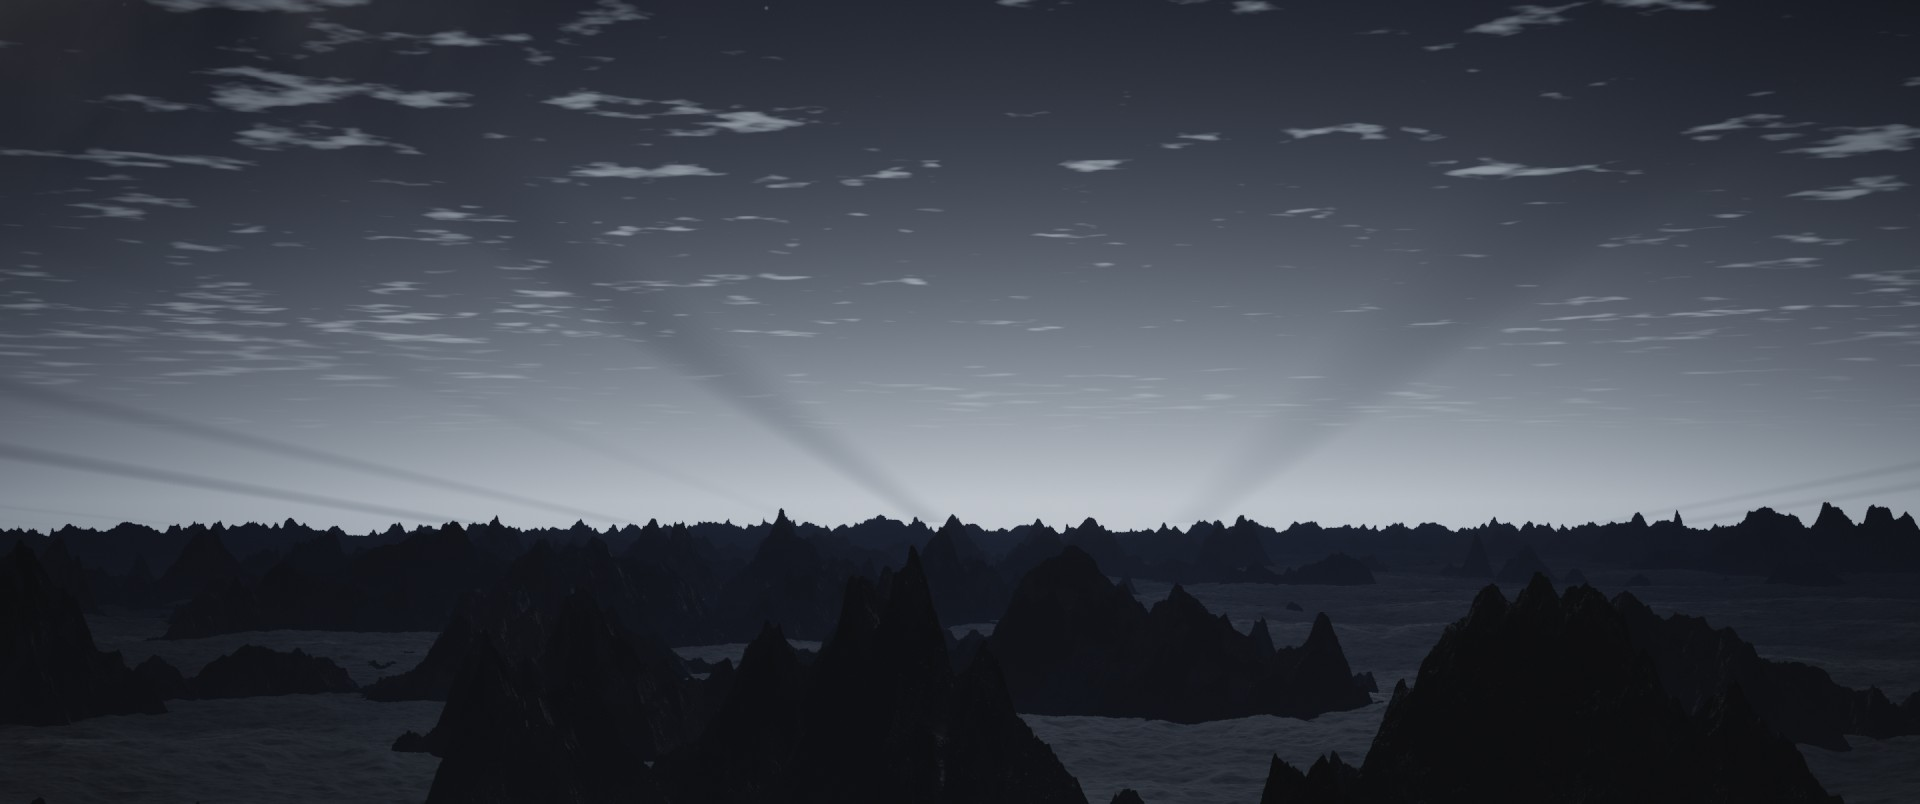
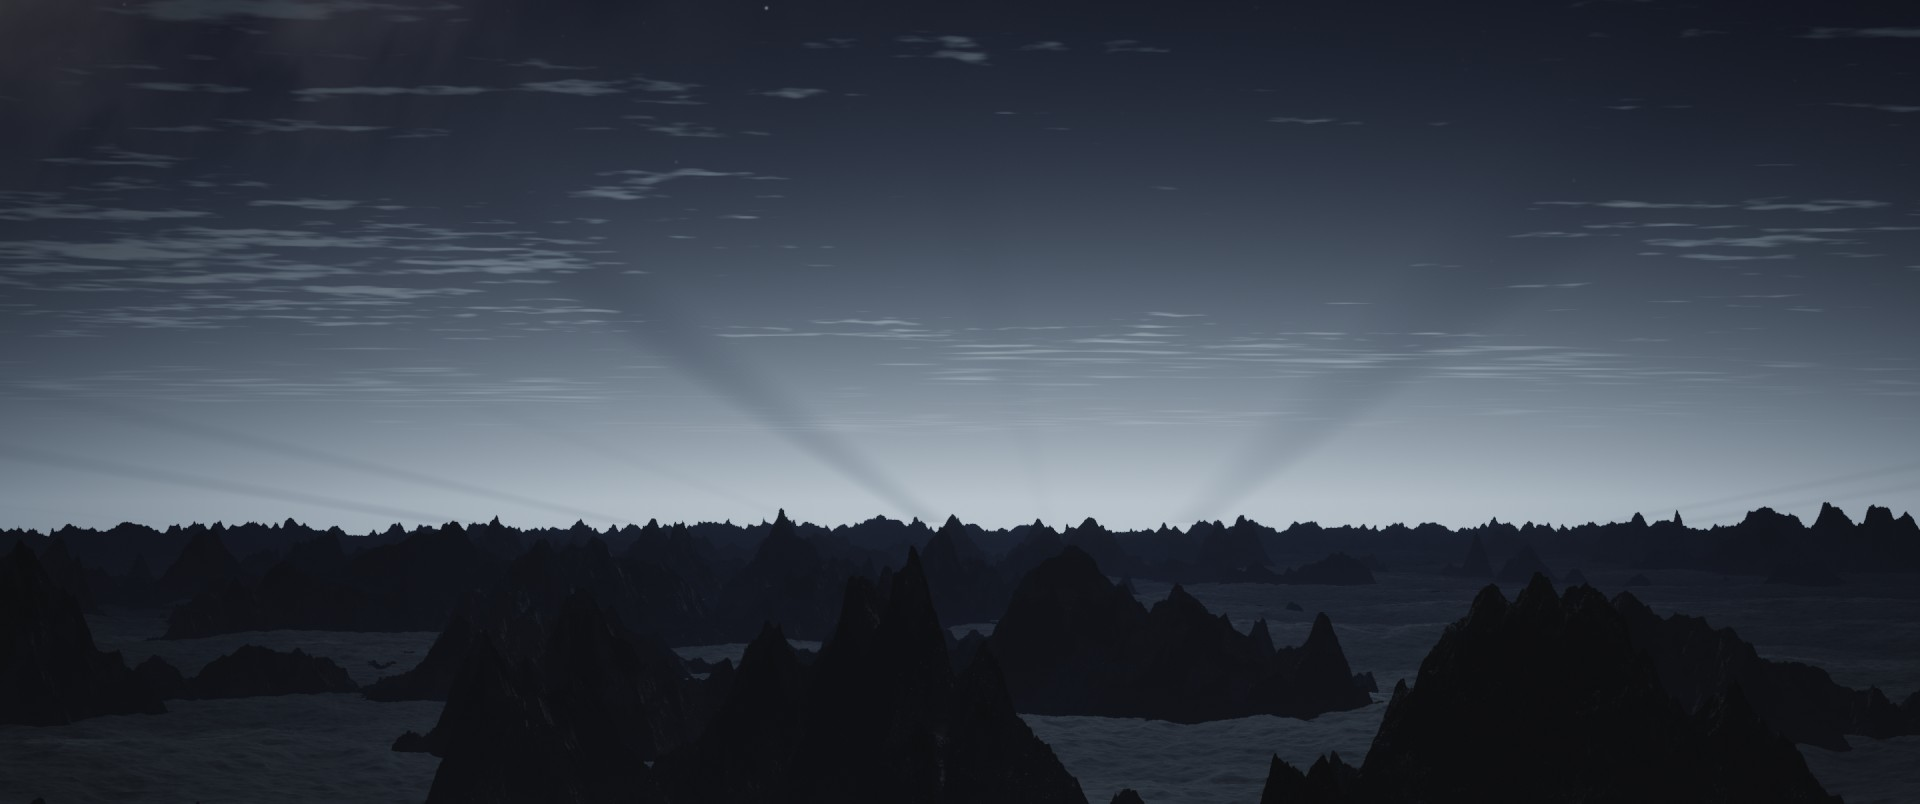
RUN-A: crossing passes at 64 m (40 walkers, figures ~54 px); short star arcs; trail only behind the tail; earlier draw-back; false dawn arc refined (banded deck, darker zenith, rays near the source)
Claude-Session: https://claude.ai/code/session_01JFQHrAtoWMc2byk3yWo6px

diff --git a/the-long-dawn/shots/run/crossing.py b/the-long-dawn/shots/run/crossing.py
@@ -23,7 +23,7 @@ import sys
 import time
 
 import numpy as np
-from numba import njit, prange
+from numba import njit
 
 HERE = os.path.dirname(os.path.abspath(__file__))
 sys.path.insert(0, HERE)
@@ -164,7 +164,7 @@ S_L0 = None                                   # arc length of the lantern at fra
 def variant_cfg(variant):
     if variant == 'few':
         return dict(n=12, gap=4.2, jit=0.5, r1=52.0, dT=12.0, hfov1=46.0, h1=1.6, r0=5.5)
-    return dict(n=40, gap=2.6, jit=0.35, r1=85.0, dT=22.0, hfov1=48.0, h1=2.5, r0=5.5)
+    return dict(n=40, gap=2.6, jit=0.35, r1=64.0, dT=17.0, hfov1=48.0, h1=2.2, r0=5.5)
 
 
 def _hh(i, j=0):
@@ -254,6 +254,11 @@ def breath(t):
 
 
 # ------------------------------------------------------------------ camera ---
+def _ss(x):
+    x = min(max(x, 0.0), 1.0)
+    return x * x * (3.0 - 2.0 * x)
+
+
 def _sm(x):
     x = min(max(x, 0.0), 1.0)
     return x * x * x * (x * (6 * x - 15) + 10)
@@ -278,8 +283,10 @@ def camera(frame, W=1920, H=804, cfg=None):
     cfg = cfg or variant_cfg('main')
     t = frame / FPS
     L = heart_pos(t)
-    e1 = _sm((t - 2.5) / 27.0)
-    e2 = _sm((t - 2.0) / 26.0)
+    # the draw-back starts within a second of the match cut (a cubic ease: it is under way by 3 s) and settles at
+    # 26 s; the swing from behind to side-on runs alongside it
+    e1 = _ss((t - 1.0) / 25.0)
+    e2 = _ss((t - 1.0) / 24.0)
     r = cfg['r0'] * (cfg['r1'] / cfg['r0']) ** e1
     beta = math.radians(14.0 + 60.0 * e2)
     h = 1.25 + (cfg['h1'] - 1.25) * e1 ** 1.3
@@ -287,7 +294,7 @@ def camera(frame, W=1920, H=804, cfg=None):
     T = L - E3 * cfg['dT'] * e1 - UP * 0.3 * e1
     d = T - pos
     yaw = math.degrees(math.atan2(d[0], d[2]))
-    pitch = math.degrees(math.atan2(d[1], math.hypot(d[0], d[2]))) + 5.0 * e1
+    pitch = math.degrees(math.atan2(d[1], math.hypot(d[0], d[2]))) + 3.0 * e1
     hfov = 32.0 + (cfg['hfov1'] - 32.0) * e1
     return RC.RCam(pos, yaw, pitch, 0.0, hfov, W, H)
 
@@ -334,7 +341,6 @@ def underglow(t):
 def wf_positions():
     out = []
     for u in WF_U:
-        p = uv(u, 5.5)
         # the top of the little rock step
         best = None
         for dv in np.linspace(-2.5, 2.5, 11):
@@ -491,7 +497,8 @@ def draw_sky(fr, t, pxs):
     st = stars()
     a = sky_angle(t)
     mask = (fr.dist > 1e8).astype(np.float32)
-    expo = min(a, 10.0) * smoothstep(0.0, 6.0, a)         # degrees of arc in each trail
+    expo = min(a, 6.0) * smoothstep(0.0, 6.0, a)          # degrees of arc in each trail (short: the sky
+    # turns, it is not a star-trail photograph)
     M = 2 if expo < 0.05 else int(8 + 16 * min(expo / 10.0, 1.0))
     angs = a - expo * (1.0 - np.linspace(0.0, 1.0, M))
     D = st['dir']
@@ -521,7 +528,7 @@ def draw_sky(fr, t, pxs):
         return
     # the head (current position) stays a point; the arc behind it is the exposure, fading with age
     wage = np.exp(-(1.0 - np.linspace(0.0, 1.0, M)) * 1.6)[None, :]
-    seg_e = lum[:, None] * ext * wage * 0.45 * (0.4 + 0.6 * min(expo / 8.0, 1.0))
+    seg_e = lum[:, None] * ext * wage * 0.36 * (0.4 + 0.6 * min(expo / 5.0, 1.0))
     _trails(fr.img, mask, sx.astype(np.float64), sy.astype(np.float64), seg_e[:, :-1].astype(np.float64), col,
             float(sig))
     SK._splat(fr.img, sx[:, -1].astype(np.float64), sy[:, -1].astype(np.float64), (head * 0.6).astype(np.float64),
@@ -698,23 +705,21 @@ def draw_trail(img, zb, scam, t, cfg, gain):
     """The faint trail of light the line leaves on the path behind it (opens with the long exposure)."""
     if gain <= 0.0:
         return
+    # only BEHIND the last walker, on the trodden snow: between the walkers a lit line reads as a wire
     S_ = line_s(t, cfg)
-    s_head = S_[1]
-    ss = np.arange(s_head - 260.0, s_head - 0.5, 0.5)
-    I = np.zeros(len(ss))
-    for sk in S_[1:]:
-        dlt = sk - ss
-        I += np.where(dlt > 0, smoothstep(0.6, 3.2, dlt) * np.exp(-dlt / 55.0), 0.0)
-    I = I / 8.0
+    s_tail = S_[-1]
+    ss = np.arange(s_tail - 150.0, s_tail - 0.8, 0.4)
+    dlt = s_tail - ss
+    I = np.exp(-dlt / 45.0) * smoothstep(1.0, 5.0, dlt)
     P, _ = at(ss)
-    P = P + UP * 0.72
+    P = P + UP * 0.05
     sx, sy, z = scam.project(P)
     col = np.array([1.0, 0.62, 0.30])
     for m in range(len(ss) - 1):
         if z[m] < 0.5 or I[m] <= 1e-4:
             continue
         e = gain * 0.5 * (I[m] + I[m + 1])
-        w = max(0.05 * scam.f / z[m], 0.6)
+        w = max(0.22 * scam.f / z[m], 0.6)
         _aa_line(img, zb, float(sx[m]), float(sy[m]), float(sx[m + 1]), float(sy[m + 1]), float(z[m]), float(w),
                  float(col[0] * e), float(col[1] * e), float(col[2] * e), 0.4)
 
@@ -829,7 +834,7 @@ def render(frame, scale=1.0, ss=1.5, variant='main', trail=True):
     SP.render(fr.img, fr.zb, C, Pr, Ob, np.array(lights, np.float64), moon, light[1] * 1.3, light[3], scam.pos[1])
     a = sky_angle(t)
     if trail:
-        draw_trail(fr.img, fr.zb, scam, t, cfg, 0.06 * smoothstep(4.0, 16.0, a))
+        draw_trail(fr.img, fr.zb, scam, t, cfg, 0.10 * smoothstep(4.0, 16.0, a))
     draw_rope(fr.img, fr.zb, scam, waists, lights, md, mf)
     draw_fires(fr.img, fr.zb, scam, t)
     draw_small_glows(fr.img, fr.zb, scam, lant)

diff --git a/the-long-dawn/shots/run/falsedawn.py b/the-long-dawn/shots/run/falsedawn.py
@@ -122,7 +122,7 @@ def glow_at(dx, dy, dz, GP, SKL0, SKLD, SKL):
                         loc += SKL[kk]
                     loc /= 11.0
                     blk = min(max((pk - loc - 0.0006) / 0.0030, 0.0), 1.0)
-                    fade = math.exp(-dl / 0.22)
+                    fade = math.exp(-dl / 0.22) * math.exp(-(daz / 0.45) ** 2)   # rays only near the source
                     g *= 1.0 - GP[11] * blk * fade
     elif d < 1.5:
         # a leaning pyramid of pale light (the zodiacal cone)
@@ -179,9 +179,12 @@ def sky_pass(img, dist, trans, C, GP, MW, SKL0, SKLD, SKL, cam_y, t):
                 fp = tt * pix / max(dy + 0.02, 0.02)
                 o1 = min(max(math.log2(max(2600.0 / max(fp * 2.0, 1e-3), 1.0)), 1.0), 6.0)
                 o2 = min(max(math.log2(max(700.0 / max(fp * 2.0, 1e-3), 1.0)), 0.0), 4.0)
-                n1 = fbm2(x / 2600.0 + 0.00002 * t, z / 2600.0, o1, 171)
+                # altocumulus in waves: cells stretched across a wind direction, in banks with clear gaps
+                ua = 0.80 * x + 0.60 * z
+                va = -0.60 * x + 0.80 * z
+                n1 = fbm2(ua / 4200.0 + 0.00002 * t, va / 1500.0, o1, 171)
                 n2 = fbm2(x / 700.0, z / 700.0, o2, 172) if o2 > 0.5 else 0.0
-                cov = GP[18] + 0.60 * fbm2(x / 42000.0 + 3.0, z / 42000.0, 3.0, 173)
+                cov = GP[18] + 0.95 * fbm2(x / 30000.0 + 3.0, z / 30000.0, 3.0, 173)
                 dens = min(max((n1 + 0.4 * n2 + cov + 0.05) / 0.75, 0.0), 1.0) ** 1.5
                 # far off the deck thins into streaks, and fades out toward the horizon
                 dens *= min(max((dy - 0.03) / 0.12, 0.0), 1.0)
@@ -196,7 +199,8 @@ def sky_pass(img, dist, trans, C, GP, MW, SKL0, SKLD, SKL, cam_y, t):
                     if daz < -math.pi:
                         daz += 2 * math.pi
                     wz = 0.85 if GP[15] < 0.5 else (0.45 if GP[15] < 1.5 else 1.3)
-                    Lc = GP[2] * GP[16] * math.exp(-(daz / wz) ** 2) * (0.35 + 0.65 * math.exp(-el / 0.35))
+                    # grazing light from below the horizon: cloud high overhead gets little of it
+                    Lc = GP[2] * GP[16] * math.exp(-(daz / wz) ** 2) * (0.10 + 0.90 * math.exp(-el / 0.13))
                     cosg = math.cos(daz) * math.cos(el)
                     ph = 0.25 + 2.2 * max(cosg, 0.0) ** 6
                     silver = a * math.exp(-0.9 * tau) * ph * 1.8 + 0.30 * a
@@ -218,10 +222,10 @@ def glow_params(design, I):
     GP[0] = math.radians(GLOW_AZ)
     GP[1] = math.radians(EL_S)
     GP[2] = I
-    col = np.array([0.80, 0.90, 1.00])          # the mind palette: ice-white, a breath of cyan
+    col = np.array([0.72, 0.88, 1.00])          # the mind palette: ice-white, a breath of cyan
     GP[3:6] = col
     GP[6] = math.radians(44.0)
-    GP[7] = math.radians(6.0)
+    GP[7] = math.radians(5.0)
     GP[8] = 0.7
     GP[9] = math.radians(30.0)
     GP[10] = math.radians(2.6)
@@ -234,8 +238,8 @@ def glow_params(design, I):
     GP[17] = 0.032
     GP[18] = {'arc': -0.22, 'cone': -0.34, 'veil': -0.14}[design]
     GP[19] = 5500.0
-    GP[20:23] = lin('#04071A') * 0.9
-    GP[23:26] = lin('#141C3C') * 0.8
+    GP[20:23] = lin('#030822') * 1.0
+    GP[23:26] = lin('#101A40') * 0.8
     GP[26] = 0.09
     if design == 'veil':
         GP[8] = 1.0

diff --git a/the-long-dawn/shots/run/sdfppl.py b/the-long-dawn/shots/run/sdfppl.py
@@ -397,7 +397,6 @@ def walker(sc, feet, w, phase, rgb, lantern=None, staff=False, pack=True, height
     w = _unit([w[0], 0.0, w[2]])
     s = np.cross(up, w)            # left of the walker
     h = height
-    sn, cs = math.sin(phase), math.cos(phase)
     bob = 0.018 * h * math.cos(2 * phase)
     pel = feet + up * (0.93 * h + bob)
     fwd_lean = w * math.sin(lean) + up * math.cos(lean)

diff --git a/the-long-dawn/shots/run/NOTES.md b/the-long-dawn/shots/run/NOTES.md
@@ -1,27 +1,15 @@
 # RUN-A (lane runA) REPORT: THE CROSSING greybox (risk test #3) + FALSE DAWN stills
-*27 Sep, 01:00Z. Revision 1 absorbed (A 4:30; R4 cut; A ends in the blue hour, no sun disc; FALSE DAWN and the red
-under-glow are must-haves).*
+*27 Sep, 05:30Z (resumed after the block). Revision 1 absorbed (A 4:30; R4 cut; A ends in the blue hour, no sun disc;
+FALSE DAWN and the red under-glow are must-haves).*
 
-## STATE AT THE BLOCK (01:20Z to 05:00Z): renders running on this box
-* 01:07Z: `grey_q` at 92/960 (~7 frames/min; the close-up frames are the slow ones). Expect `grey_q` about 02:30Z,
-  `grey_q_few` about 02:50Z, `grey_h` running past 05:00Z (partial at resume is fine; judge the wides first).
-* Pushed: `claude/v3-runA` and `claude/run-a-crossing-greybox-ub8wbz` at 0b1e3c9 (code, job files, two review sheets).
-* 01:06Z: cloth folds and mottle in the SDF shader; the front bearer in near-black wool (the one figure the lantern
-  must light from the camera's side).
-* `scratchpad/bg_chain.sh` (launched 00:52Z): `renders/crossing_A/grey_q` (0.25 scale, all 960 frames) ->
-  `grey_q_few` (the fallback: 12 larger walkers, every 2nd frame) -> `grey_h` (0.5 scale, 960 frames). Each stage
-  writes an mp4 to `review/v3/crossing_greybox_{q,q_fewer_larger,h}.mp4`. Log: `scratchpad/bg_chain.log`.
-* `scratchpad/bg_fd.sh` (00:58Z): FALSE DAWN, three designs at 0.5 scale (frames 160, 300, 420) ->
-  `renders/falsedawn_A/half/{arc,cone,veil}`, then the arc at full res -> `renders/falsedawn_A/full_arc`.
-* **Do not edit `crossing.py` while the chain runs**: later stages start new processes that import it.
-* 01:03Z changes (picked up by `grey_q_few` and `grey_h`, NOT by `grey_q`): about half the walkers carry the lantern
-  on the far side (their bodies silhouette against their own light: less "string of lights"); the rope much subtler
-  (it had been stringing the lights together like a festoon); the red under-glow +50% and deeper red (it now reads
-  as a dull smoulder along the horizon band). FALSE DAWN arc: a thicker high deck silvered from beneath (the bible's
-  "silvers the undersides of high cloud"); `scratchpad/bg_fd2.sh` renders it to `renders/falsedawn_A/full_arc2`
-  (full res, frames 300, 420) and `half_arc2` (8 frames across the swell).
-* NEXT on resume: contact sheets from grey_q / grey_h / half (-> review/v3/*.jpg); judge main vs fewer-larger at 0.5
-  scale; the fixes below; commit + push `claude/v3-runA`; hand the director the RENDER_SPEC.
+**Verdict.** THE CROSSING greybox PASSES against its fallback with one change of framing: keep all 40 walkers but end
+the draw-back at 64 m (figures ~54 px at full res), so the line reads as people carrying lights, not LED dots, and
+runs on out of frame. The fewer-larger fallback (`--variant few`) reads as people even more plainly and shows the
+pole-bearers as an iconic silhouette, but it plays as a small party, not "about forty". FALSE DAWN: the **arc** wins.
+
+**Lesson for every lane:** background renders on the session's own box do NOT run through a usage block. The box is
+frozen while the session is idle and rebooted at resume (here the chain stopped at 01:13Z at frame 140/960). Anything
+that must render while we wait goes to cloud jobs.
 
 ## THE CROSSING (R6): what is built (`shots/run/crossing.py`, `shots/run/sdfppl.py`, additive `world.py`)
 * **Set.** A knife-edge arete (8 `ridge_row` segments, a wandering crest, flanks falling ~60 deg to the cloud sea
@@ -30,66 +18,66 @@ under-glow are must-haves).*
   the world's sunrise azimuth); the camera stays on the south side and never gets ahead of the lantern.
 * **People.** 2 hooded bearers carry the great lantern (hexagonal, iron and glass, pierced roof, finial ring) hung
   from a crossbar between two poles on their shoulders; 40 roped walkers (packs, a third with staffs, varied heights
-  and gait), each with a small orange hand-lantern that swings with the step. Walk cycles follow the distance
-  actually walked (no foot sliding); the spacing breathes like an accordion. All 3-D SDF (`sdfppl.py`), depth-tested
-  into the terrain, lit by every lantern (inverse square) plus the moon; no faces anywhere (hoods, seen from behind
-  or side-on at 20-45 px).
-* **Pace.** 0.45 m/s: one 0.375 m step per beat at 72 BPM. The great lantern is a 2.6-unit point light: its pool on
-  the snow is a few paces across. The camera draws back (5.5 m -> 85 m, exponential, eased), swings from behind the
-  rear bearer to side-on, and settles at crest level.
+  and gait), each with a small orange hand-lantern swinging with the step, about half of them on the far side so
+  the body silhouettes against its own light. Walk cycles follow the distance actually walked (no foot sliding); the
+  spacing breathes like an accordion. All 3-D SDF (`sdfppl.py`), depth-tested into the terrain, lit by every lantern
+  (inverse square) plus the moon, cloth with hanging folds and mottle; no faces anywhere (hoods, seen from behind or
+  side-on).
+* **Pace.** 0.45 m/s: one 0.375 m step per beat at 72 BPM. The great lantern is a 2.6-unit point light whose pool on
+  the snow is a few paces across. The camera draws back 5.5 m -> 64 m (exponential in distance, a cubic ease from
+  1 s to 26 s: under way by 3 s, 15 m at 12 s), swings from behind the rear bearer to side-on and settles at crest
+  level for the last 14 s (the walking wide: fires fed, red going out, moon setting).
 * **Two clocks.** The people keep real time. The sky keeps a faster clock that eases in once the draw-back is under
-  way (46 deg of sky, about three hours): stars become arcs about a low pole (latitude 8 deg, so the pole sits inside
-  the wide), the moon sets behind the arete (backlight at first, darkness by the end), the watch-fires burn low and
-  are fed (flare) on that clock, 34 far watch-fires on the islands do the same, the red under the cloud goes out
-  patch by patch, the lantern's fire warms from ice-white to gold, and a faint trail of light opens on the path
-  behind the line.
+  way (46 deg of sky, about three hours): stars become short arcs about a low pole (latitude 8 deg, pole in frame;
+  arcs capped at 6 deg so it reads as the sky turning, not a star-trail photograph); the moon sets behind the arete
+  (backlight first, darkness by the end: the dark hour before the blue hour); the watch-fires burn low and are fed;
+  34 island watch-fires do the same; the red under the cloud goes out patch by patch; the lantern's fire warms from
+  ice-white toward gold.
 * **The red under-glow (must-have)** is a reusable ADDITIVE post-pass, `world.cloud_glow(C, D, P, CR, UG, fogp, out)`:
   emission on cloud-sea pixels from a patch table (x, z, radius, rgb, noise scale, trough bias), brightest in the
   troughs, lighting the cloud-top mist in front of it. Existing callers are untouched (also added: `world.heights`).
-  In the crossing the only visible cloud sea is the band under the horizon beyond ~15 km (the arete hides the rest),
-  so the patches sit 14-48 km out and read as a dull red smoulder along the horizon, going out one by one.
+  From the arete only the band under the horizon beyond ~15 km is visible, so the patches sit 14-48 km out and read
+  as a dull red smoulder along the horizon between the islands, going out one by one. R3/R2 can call it as is.
 
-## Risk test result (quarter-scale stills; motion greybox rendering)
-* **Composition: PASS.** Close-up match cut on the heart from behind the rear bearer; the draw-back; the wide at crest
-  level with the line silhouetted against the islands, the cloud band and the sky; the star trails arcing about
-  the pole read as "the sky wheels" (first version read as warp-speed streaks; fixed with a low pole in frame,
-  shorter arcs, compressed star brightness).
-* **The line: NOT YET PASSED at 0.25 scale.** From above, the first wide read as LED dots, as the bible predicted.
-  With the camera lowered to crest level (figures ~43 px at full res, backlit by the moon and the far cloud) it
-  reads as people walking in the half-wide, but the final wide still leans "string of lights" at 0.25 scale.
-  Judge on `grey_h` (0.5 scale) against `grey_q_few` (12 larger walkers). If main still reads as dots: ship the
-  fewer-larger variant (`--variant few`: 12 walkers, camera at 52 m).
-* **Lantern's pool: PASS** (visible warm pool on the crest in the wides). **Rope: weak** (sub-pixel; reads only
-  near lanterns). **Trails: too faint to judge**; keep subtle. **Red under-glow: faint**, needs +50% and one patch
-  nearer the frame centre.
-* **Weaknesses to fix before any full render:** the bearers in the first 5 s are mannequin-grey where the lantern
-  lights them (cloth needs fold normals and noise albedo, a darker grade); the heart needs its filament detail tuned
-  at full res; the far islands read a little flat.
+## Risk test, item by item (0.25 scale motion at 12 fps; 0.5 scale 5-s wide at 24 fps; review/v3/runA_crossing_*)
+* **Composition: PASS.** Match cut on the heart from behind the rear bearer; the draw-back; the side-on wide at crest
+  level with the line against the islands, the cloud band and the sky.
+* **The line: PASS at 64 m** (0.5 scale). From above (first try) it read as LED dots; at 85 m it leaned "string of
+  lights"; at 64 m every light has a hooded figure with a pack over it and a pool on the snow, and the rope sags
+  between them. Fallback kept: `--variant few` (12 walkers, camera at 52 m).
+* **Lantern's pool: PASS.** **Rope: PASS, subtle** (a thin sagging line; brighter it strings the lights like a festoon).
+* **Wheeling sky: PASS** after two fixes (warp-speed streaks -> low pole in frame; full star-trail circles read as a
+  wallpaper -> 6 deg arcs, fainter).
+* **Trails: DROPPED in this framing.** Between walkers a lit line reads as a wire; behind the tail (on the trodden
+  snow, code kept) it is off-frame at 64 m. Recommend the trail be seen, if anywhere, in the blue-hour shot.
+* **Remaining weaknesses:** the close-up bearers are still smooth-limbed (hands are capsules; OK at 5.5 m in a
+  backlit frame, not closer); the arete's lower flank is a large dark area in the wide; the far islands read a
+  little flat; the red smoulder can read as a last band of sunset if graded warmer (keep it deep red, patchy).
 
 ## FALSE DAWN (R1): three still designs (`shots/run/falsedawn.py --design {arc,cone,veil}`)
-Moonless midnight from the Dawn-C vantage over the foothills, looking at the world's sunrise azimuth; the Milky
-Way rising from the left horizon; a high altocumulus deck; stars and the Milky Way attenuated by the glow's local
-brightness (they go out near it); terrain lit from just over the horizon so the far peaks rim and cast long shadow.
-* **arc**: a wide low arch, cold white with a breath of cyan, soft shadow rays fanning up from the far peaks.
-* **cone**: a leaning pyramid of pale light (the zodiacal light, the astronomer's own "false dawn").
-* **veil**: no visible source, only the deck lit from beneath and a thin line on the skyline.
-* **WINNER: arc.** It is the only one that reads as morning come too early: the rays come from a point below the
-  horizon, which no city makes and a moon rarely does, and it is too broad to be a moonrise. The cone reads as a
-  searchlight or sci-fi beacon. The veil reads as cloud lit by a city (light pollution). Keep the rays soft and
-  few (a "studio logo" read appears as soon as they are crisp).
+Moonless midnight from the Dawn-C vantage over the foothills, looking at the world's sunrise azimuth; the Milky Way
+rising from the left horizon; a high altocumulus deck; stars and the Milky Way attenuated by the glow's local
+brightness (they go out near it); terrain lit from just over the horizon so the far peaks rim.
+* **arc (WINNER)**: a wide low arch, ice-white with a breath of cyan, soft shadow rays fanning up from the far peaks
+  near the source, the undersides of a banded altocumulus deck silvered. It is the only design that reads as morning
+  come too early: rays from a point below the horizon, which no city makes, and too broad for a moonrise.
+  `review/v3/runA_falsedawn_arc_swell.jpg` (f160 starry midnight, f300 swell, f420 peak) and
+  `runA_falsedawn_arc_full_f420.jpg` (full res).
+* **cone**: a leaning pyramid of pale light (the zodiacal light). Reads as a searchlight or sci-fi beacon.
+* **veil**: only the deck lit from beneath. Reads as cloud lit by a city (light pollution).
+* `review/v3/runA_falsedawn_three_designs.jpg` compares them (first pass, before the arc's refinements: banded deck,
+  darker zenith, rays limited to the source).
 
-* Full-res arc (review/v3/runA_falsedawn_arc_full_f420.jpg, the glow's peak): reads as dawn come too early. Next pass:
-  keep the zenith darker at the peak (it greys out, losing "midnight"), break up the evenly scattered deck wisps
-  (a procedural tell), keep a few stars high in the frame.
-
-## RENDER_SPEC (director launches; do NOT launch before the look is approved at 0.5 scale)
+## RENDER_SPEC (director launches; greybox look approved by this lane, not yet by the producers)
 * THE CROSSING: `cloud/jobs/crossing_a_{1..8}.json`, 120 frames each, `python3 shots/run/crossing.py --range A-B
-  --procs 4 --skip` -> `renders/crossing_A/f_%05d` (shot-local 0-959; 1920x804; ship jpg). One machine type.
-  Estimated cost: 3-10 min/frame single-thread at full res (close-up frames 0-300 heaviest), ~80 box-hours
-  single-thread; about 2-3 h wall on 8 four-core boxes. Fallback variant: add `--variant few`.
-* FALSE DAWN: `cloud/jobs/falsedawn_a_{1..4}.json`, `python3 shots/run/falsedawn.py --design arc --range A-B --procs
-  4 --skip` -> `renders/falsedawn_A/f_%05d` (shot-local 0-479). Far terrain only (Dawn-C cost, 2-4 min/frame).
+  --procs 4 --skip` -> `renders/crossing_A/f_%05d` (shot-local 0-959; 1920x804, ss 1.5; ship jpg). One machine type.
+  Measured: 0.25 scale ss 1.0 ~20 s/frame (close-ups) and 0.5 scale ss 1.0 ~15 s/frame (wides), single-thread; so full
+  res ss 1.5 ~12 min (close-ups) to ~2.5 min (wides) single-thread, ~80 worker-hours: about 2.5 h wall on 8 four-core
+  boxes. Fallback: add `--variant few`.
+* FALSE DAWN: `cloud/jobs/falsedawn_a_{1..4}.json`, `python3 shots/run/falsedawn.py --design arc --range A-B --procs 4
+  --skip` -> `renders/falsedawn_A/f_%05d` (shot-local 0-479). Measured ~1 min/frame single-thread at full res.
 * Data that must be committed: `shots/run/crossing_fires.npy` (the island fires), plus the Run's summits/beacons.
+* Frame numbering is shot-local because the bar map was not locked; the edit maps 0-959 and 0-479 onto A's timeline.
 
 # >>> RUN-C (C . THE LIVING INK: C16 REVEAL, C17 INK RUN, C24 ILLUMINATION) - report 27 Sep <<<
 ## PAUSED 27 Sep ~10:40Z (director's usage pacing). Nothing is rendering. RESUME HERE
